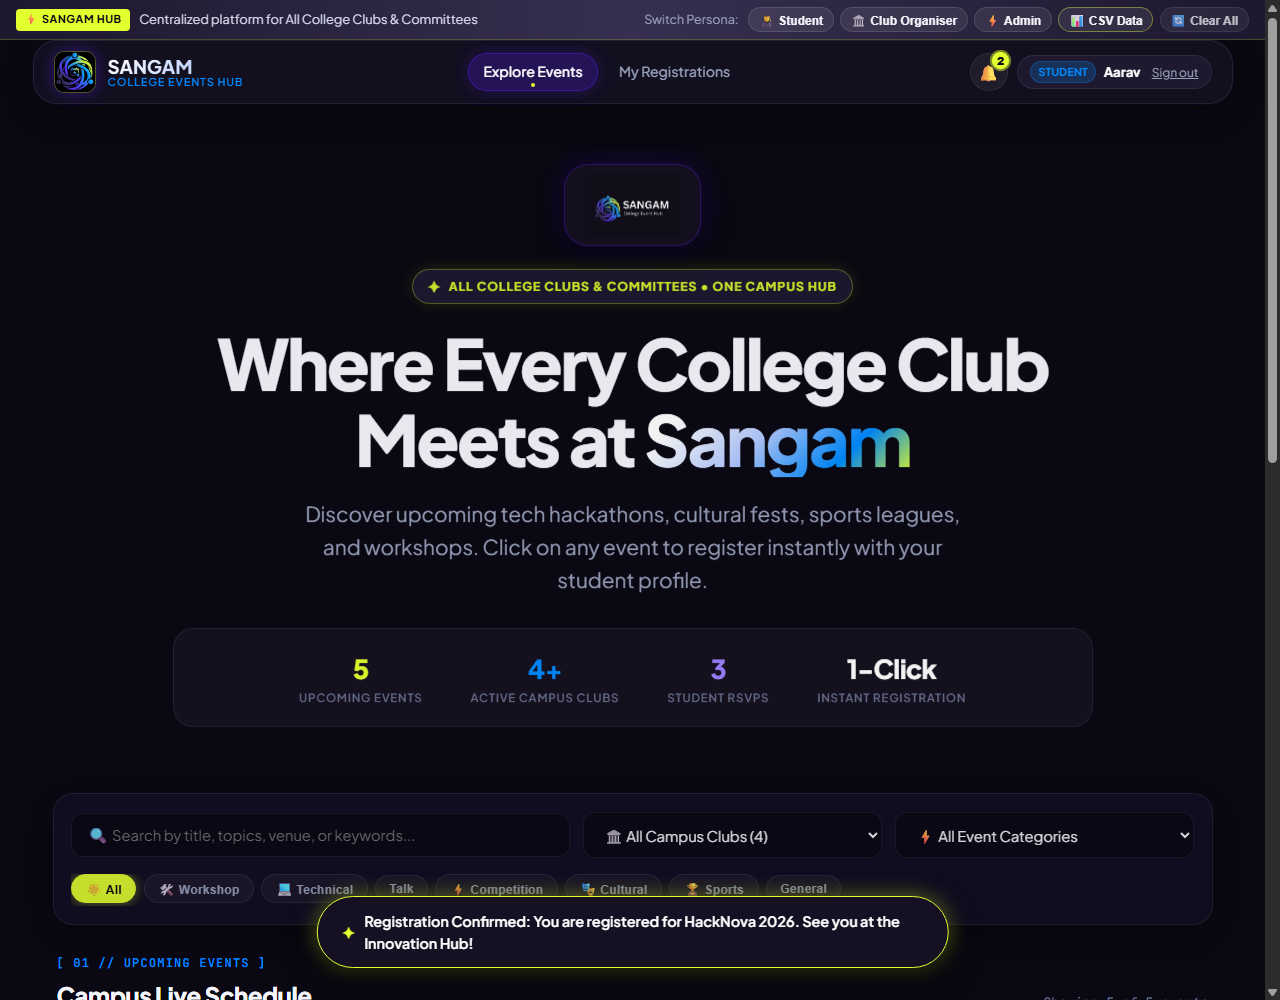
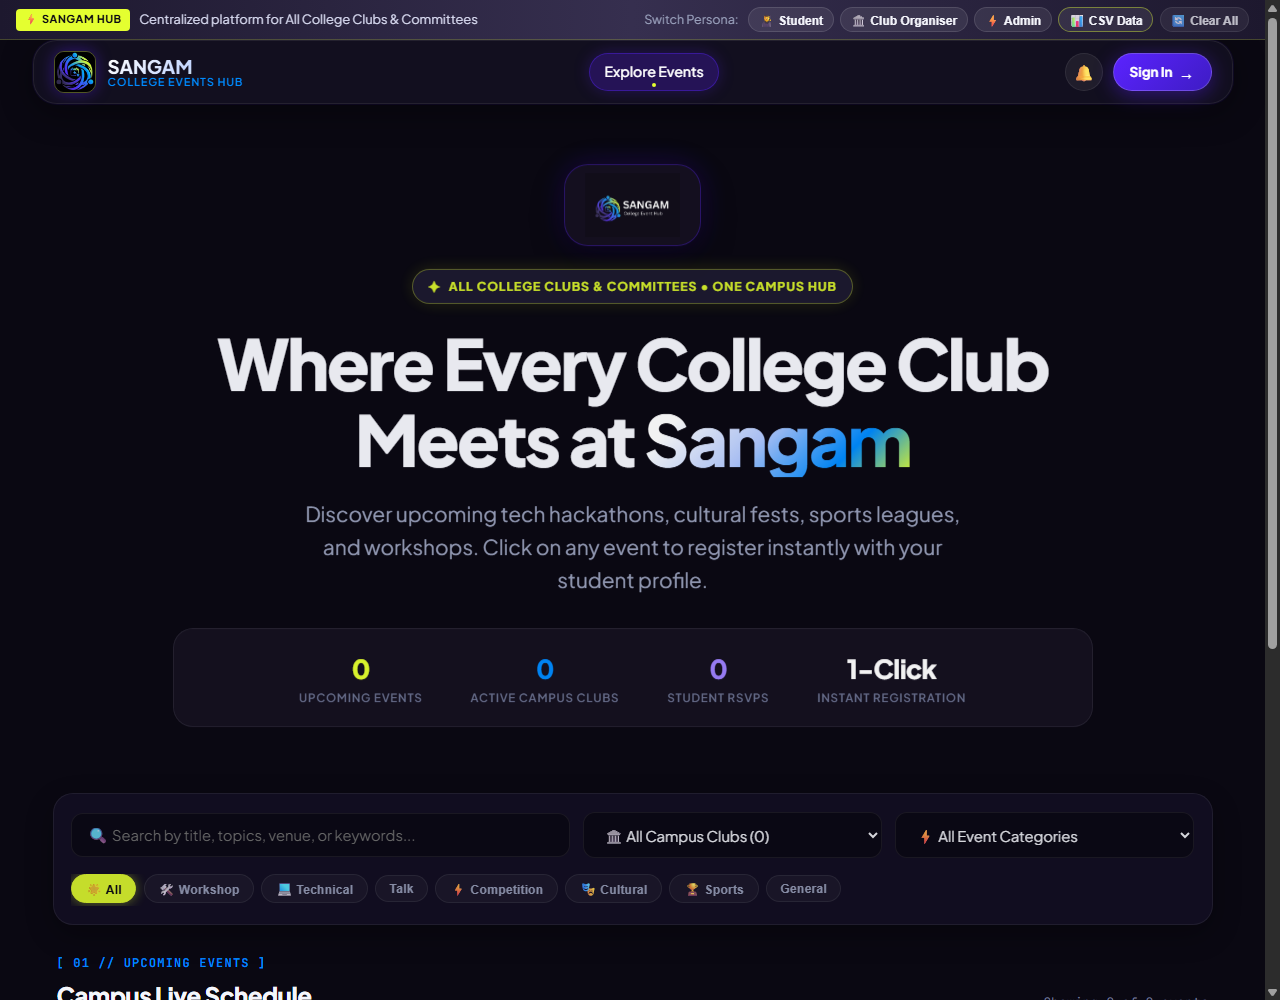
Remove dummy upcoming events, initialize fresh with 0 events and clean state

diff --git a/index.html b/index.html
@@ -1481,7 +1481,7 @@ function getPosterGradient(clubName) {
 }
 
 /* ---------------- Database & Persistence (Prototype) ---------------- */
-const DBK = 'sangam-proto-v4';
+const DBK = 'sangam-clean-v1';
 const CODES = { organiser: 'ORG-2026', admin: 'ADMIN-2026' };
 const nid = () => Math.random().toString(16).slice(2, 12).padEnd(10, '0');
 const tiso = d => new Date(d).toISOString().replace(/\.\d+Z$/, 'Z');
@@ -1499,11 +1499,9 @@ const sha = async str => {
   return (h >>> 0).toString(16).padStart(8, '0');
 };
 
-/* Rich sample events pre-seeded so the portal is lively on start */
+/* Empty starting data with 0 events, 0 registrations, 0 notifications */
 async function seed() {
   const pwHash = await sha('password123');
-  const now = Date.now();
-  const day = 86400000;
 
   const users = [
     { id: 'usr-student', name: 'Aarav Sharma', email: 'student@campus.edu', role: 'student', club: '', hash: pwHash },
@@ -1514,98 +1512,9 @@ async function seed() {
     { id: 'usr-admin', name: 'Dr. S. K. Kulkarni', email: 'admin@campus.edu', role: 'admin', club: '', hash: pwHash }
   ];
 
-  const events = [
-    {
-      id: 'ev-hacknova',
-      club: 'Google Developer Student Club',
-      owner: 'usr-gdsc',
-      status: 'approved',
-      created: tiso(now - day * 2),
-      title: 'HackNova 2026: 36-Hour National AI Hackathon',
-      desc: 'Join 500+ student developers across India to build transformative solutions in GenAI, HealthTech, and Sustainable Cities. Mentored by industry leads from Google, Microsoft, and top startups. Free food, swag packs, and a prize pool of ₹1,50,000!',
-      at: tiso(now + day * 3),
-      venue: 'Campus Innovation Hub, 4th Floor',
-      cap: '120',
-      cat: 'Technical'
-    },
-    {
-      id: 'ev-robosprint',
-      club: 'ACM Student Chapter',
-      owner: 'usr-acm',
-      status: 'approved',
-      created: tiso(now - day * 3),
-      title: 'RoboSprint: Autonomous Arena Challenge',
-      desc: 'Design and pit your line-following and maze-solving autonomous bots against top college teams in a high-speed obstacle course. Hardware kits provided for hands-on qualifiers.',
-      at: tiso(now + day * 5),
-      venue: 'Main Auditorium Foyer',
-      cap: '80',
-      cat: 'Competition'
-    },
-    {
-      id: 'ev-rhythm',
-      club: 'Cultural & Dramatics Committee',
-      owner: 'usr-cultural',
-      status: 'approved',
-      created: tiso(now - day * 1),
-      title: 'Rhythm & Lights: Annual Inter-College Music & Dance Night',
-      desc: 'The biggest night of the semester! Live indie bands, beatboxing showcases, classical fusion, and street dance battles under the campus amphitheater stars.',
-      at: tiso(now + day * 7),
-      venue: 'Open Air Amphitheater',
-      cap: '450',
-      cat: 'Cultural'
-    },
-    {
-      id: 'ev-quantum',
-      club: 'ACM Student Chapter',
-      owner: 'usr-acm',
-      status: 'approved',
-      created: tiso(now - day * 4),
-      title: 'Demystifying Quantum Computing & Qubits',
-      desc: 'An interactive workshop by Visiting Research Fellows on Quantum Algorithms, superposition, and writing your first quantum circuit using Qiskit.',
-      at: tiso(now + day * 10),
-      venue: 'Seminar Hall 204, IT Block',
-      cap: '60',
-      cat: 'Workshop'
-    },
-    {
-      id: 'ev-cricket',
-      club: 'Campus Sports Council',
-      owner: 'usr-sports',
-      status: 'approved',
-      created: tiso(now - day * 2),
-      title: 'Sangam Champions Trophy: Inter-Department Cricket Tournament',
-      desc: 'Annual departmental T10 cricket clash. 16 teams, knock-out rounds, floodlit finals, and player of the tournament awards.',
-      at: tiso(now + day * 14),
-      venue: 'University Cricket Grounds',
-      cap: '200',
-      cat: 'Sports'
-    },
-    {
-      id: 'ev-promptcraft',
-      club: 'Google Developer Student Club',
-      owner: 'usr-gdsc',
-      status: 'pending',
-      created: tiso(now - day * 0.5),
-      title: 'Prompt Engineering & Agentic AI Masterclass',
-      desc: 'Hands-on session exploring multi-agent orchestrations, system prompt hardening, and zero-shot reasoning patterns.',
-      at: tiso(now + day * 12),
-      venue: 'Lab 3, CS Department',
-      cap: '50',
-      cat: 'Workshop'
-    }
-  ];
-
-  const regs = [
-    { id: nid(), event_id: 'ev-hacknova', user_id: 'usr-student', name: 'Aarav Sharma', year: 'TE', branch: 'CSE-DS', created: tiso(now - day * 1) },
-    { id: nid(), event_id: 'ev-hacknova', user_id: 'usr-acm', name: 'Rohan Mehta', year: 'TE', branch: 'IT', created: tiso(now - day * 1.5) },
-    { id: nid(), event_id: 'ev-rhythm', user_id: 'usr-student', name: 'Aarav Sharma', year: 'TE', branch: 'CSE-DS', created: tiso(now - day * 0.8) }
-  ];
-
-  const notes = [
-    { id: nid(), user_id: 'usr-student', title: 'Registration Confirmed', body: 'You are registered for HackNova 2026. See you at the Innovation Hub!', event_id: 'ev-hacknova', created: tiso(now - day * 1), read: '0' },
-    { id: nid(), user_id: 'usr-student', title: 'Pass Issued: Rhythm & Lights', body: 'Your registration for the Annual Cultural Night is active.', event_id: 'ev-rhythm', created: tiso(now - day * 0.8), read: '0' },
-    { id: nid(), user_id: 'usr-admin', title: 'New Event Awaiting Approval', body: 'Prompt Engineering Masterclass was submitted by GDSC.', event_id: 'ev-promptcraft', created: tiso(now - day * 0.5), read: '0' }
-  ];
+  const events = [];
+  const regs = [];
+  const notes = [];
 
   return { users, events, regs, notes };
 }
@@ -1617,10 +1526,9 @@ try {
 } catch (e) {}
 
 const ready = (async () => {
-  if (!DB || !DB.events || !DB.events.length) {
+  if (!DB || !DB.users || !Array.isArray(DB.events)) {
     DB = await seed();
-    // Default sign in as student for a rich starting experience
-    if (!SID) SID = 'usr-student';
+    SID = null;
     persist();
   }
 })();
@@ -2131,11 +2039,11 @@ async function home() {
           <span class="stat-label">Upcoming Events</span>
         </div>
         <div class="stat-item">
-          <span class="stat-number blue">${clubs.length || 5}+</span>
+          <span class="stat-number blue">${clubs.length}</span>
           <span class="stat-label">Active Campus Clubs</span>
         </div>
         <div class="stat-item">
-          <span class="stat-number violet">${DB.regs.length}</span>
+          <span class="stat-number violet">${(DB?.regs || []).length}</span>
           <span class="stat-label">Student RSVPs</span>
         </div>
         <div class="stat-item">
@@ -2201,6 +2109,24 @@ function renderGrid() {
   if (ecb) ecb.textContent = `Showing ${l.length} of ${events.length} events`;
 
   if (!l.length) {
+    if (!events.length) {
+      grid.innerHTML = `
+        <div style="grid-column:1/-1;text-align:center;padding:4.5rem 1.5rem;background:var(--bg-card);border:1px dashed var(--border-subtle);border-radius:24px;">
+          <span style="font-size:2.8rem;display:block;margin-bottom:0.75rem">📅</span>
+          <h3 style="font-size:1.35rem;font-weight:800;color:#fff">No Upcoming Events Right Now</h3>
+          <p style="color:var(--text-muted);margin:0.5rem auto 1.5rem;max-width:520px;font-size:0.92rem;line-height:1.6">
+            All college clubs and committees are currently preparing their upcoming schedules. Club organisers can sign in to post new events, which will go live once approved by campus admins!
+          </p>
+          <div style="display:flex;gap:0.75rem;justify-content:center;flex-wrap:wrap">
+            <a href="#/login" class="btn-primary">
+              <span>Post an Event as Club Organiser</span>
+              <div class="arrow-swap"><span>→</span><span>→</span></div>
+            </a>
+          </div>
+        </div>
+      `;
+      return;
+    }
     grid.innerHTML = `
       <div style="grid-column:1/-1;text-align:center;padding:4rem 1rem;background:var(--bg-card);border:1px dashed var(--border-subtle);border-radius:20px;">
         <span style="font-size:2.5rem;display:block;margin-bottom:0.75rem">🔍</span>
@@ -2768,16 +2694,16 @@ async function act(a) {
       return toast(`Switched to persona: ${me.name} (${me.role})`);
     }
     if (d.act === 'reset') {
-      if (!confirm('Reset local prototype data back to fresh seeded campus events?')) return;
+      if (!confirm('Clear all events and reset data to a clean fresh state (0 events)?')) return;
       DB = await seed();
-      SID = 'usr-student';
+      SID = null;
       persist();
-      me = (await api('GET', '/me')).user;
+      me = null;
       notes = [];
       try { localStorage.removeItem('seen'); localStorage.removeItem('rem'); } catch (e) {}
       location.hash = '#/';
       route();
-      return toast('Database refreshed with campus events & demo accounts');
+      return toast('All events cleared. Starting fresh with 0 events.');
     }
     if (d.act === 'signin') { closeModal(); return go('login'); }
     if (d.act === 'mode') { authMode = authMode === 'in' ? 'up' : 'in'; return authPage(); }
